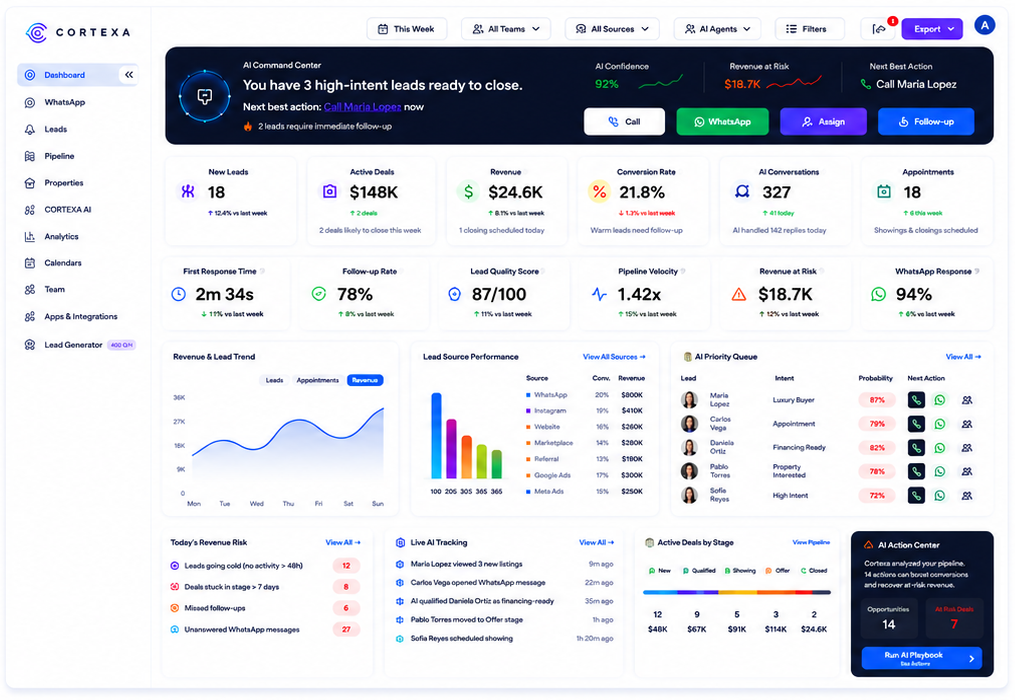
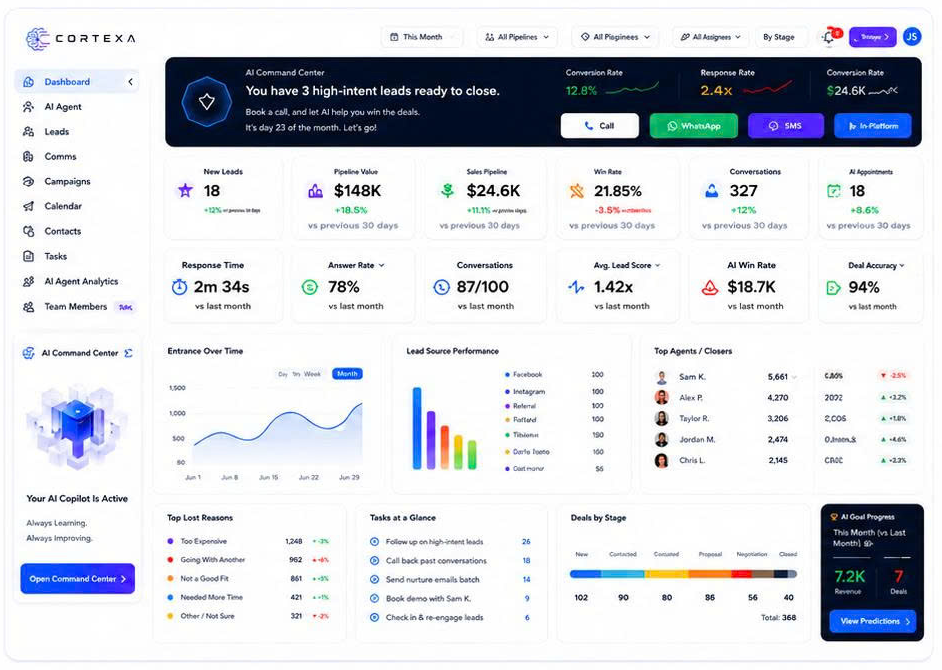
update head

diff --git a/AI-Listo/src/pages/landing/Landing.css b/AI-Listo/src/pages/landing/Landing.css
@@ -614,7 +614,10 @@
      align-items: center;
      justify-content: space-between;
  }
-
+#cortexa-ai-crm-landing .cx-header-inner {
+    max-width: unset;
+    padding: 0px 32px;
+}
  .cx-nav button, .cx-nav a.nav-menu {
      background: none;
      border: none;
@@ -633,7 +636,7 @@
  }
 
  .cx-logo-img {
-     height: 84px;
+     height: 70px;
      width: auto;
      object-fit: contain;
  }
@@ -1374,7 +1377,7 @@
 }
 
 #cortexa-ai-crm-landing .hero-title {
-  font-size: clamp(34px, 4vw, 45px);
+  font-size: clamp(34px, 4vw, 37px);
     line-height: 1;
     letter-spacing: -0.04em;
     font-weight: 700;
@@ -1394,13 +1397,12 @@
 }
 
 .hero-checks {
-  margin-top: 10px;
+  margin-top: 5px;
 }
 
 #cortexa-ai-crm-landing .check-item {
   display: flex;
   gap: 10px;
-  margin-bottom: 4px;
   color: #1f2937;
   font-size: 13px;
 }
@@ -1416,7 +1418,7 @@
   background: linear-gradient(100deg, #0b63ff, #7b42ff);
   box-shadow: 0 0 7px rgba(70, 62, 255, 0.27);
   color: #fff;
-  padding: 12px 24px;
+  padding: 10px 24px;
   border-radius: 12px;
   font-size: 18px;
   border: none;
@@ -1436,7 +1438,6 @@
 
 }
 #cortexa-ai-crm-landing .hero-tags {
-  margin-top: 10px;
   display: grid;
   grid-template-columns: repeat(6, 1fr);
   font-size: 13px;
@@ -1444,7 +1445,6 @@
   margin-left: auto;
   margin-right: auto;
   padding: 15px 5px;
-  box-shadow: 0 4px 20px rgba(8, 20, 43, 0.06);
 }
 #cortexa-ai-crm-landing .hero-tags .tags-item{
    display:flex; 
@@ -1461,7 +1461,7 @@
     top: 4px;
     bottom: 4px;
     width: 1px;
-    background: #e2e8f0;
+    background: #ced0d0;
 }
 .roi-grid{
     border-top: 1px solid #e1e1e1;
@@ -1694,19 +1694,20 @@
     width: 50%;
 }
 .hero-left-in{
-    padding-left: 11%;
+    padding-left: 7%;
+    padding-top: 10px;
 }
 #cortexa-ai-crm-landing .hero-right{
     align-items: flex-start;
 }
-
+#cortexa-ai-crm-landing .hero-right .hero-image img{
+    width: 83%;
+    float: right;
+}
 .mt-30{
     margin-top: 30px;
 }
-.hero-image img {
-  width: 95%;
-  float: right;
-}
+
 .hero-inline{
     display: flex;
     align-items: center;
@@ -2008,9 +2009,9 @@
   background-color: #ffffff;
   padding: 8px 18px;
   border-radius: 12px;
-  box-shadow: 0 4px 20px rgba(8, 20, 43, 0.06); 
-  border: 1px solid #f0f3f8;
+  border: 1px solid #edeff0;
   font-family: 'Inter', ui-sans-serif, system-ui, sans-serif;
+  margin-top: 5px;
 }
 
 #cortexa-ai-crm-landing .avatar-group {

diff --git a/AI-Listo/src/pages/landing/Landing.jsx b/AI-Listo/src/pages/landing/Landing.jsx
@@ -91,7 +91,7 @@ export default function Landing() {
       nav: [
         "Features",
         "AI Assistant",
-        "Automation",
+        "AI Automation",
         "Pipeline",
         "Analytics",
         "Testimonials",
@@ -397,7 +397,7 @@ export default function Landing() {
       nav: [
         "Características",
         "Asistente de IA",
-        "Automatización",
+        "AI Automatización",
         "Pipeline",
         "Análisis",
         "Testimonios",
@@ -719,7 +719,7 @@ export default function Landing() {
       nav: [
         "Recursos",
         "Assistente de IA",
-        "Automação",
+        "AI Automação",
         "Pipeline",
         "Análises",
         "Testemunhos",
@@ -1186,7 +1186,7 @@ export default function Landing() {
         </div>
       </header>
 
-      <section className="hero mt-30">
+      <section className="hero mt-30-">
         <div className="hero-container">
           <div className="hero-left">
             <div className="hero-left-in">
@@ -1251,7 +1251,7 @@ export default function Landing() {
                     ))}
                   </div>
                   <p className="badge-text">
-                    Trusted by 10,000+ real estate professionals accross the U.S.
+                    Trusted by 10,000+ real estate agents worldwide.
                   </p>
                 </div>
               </div>
